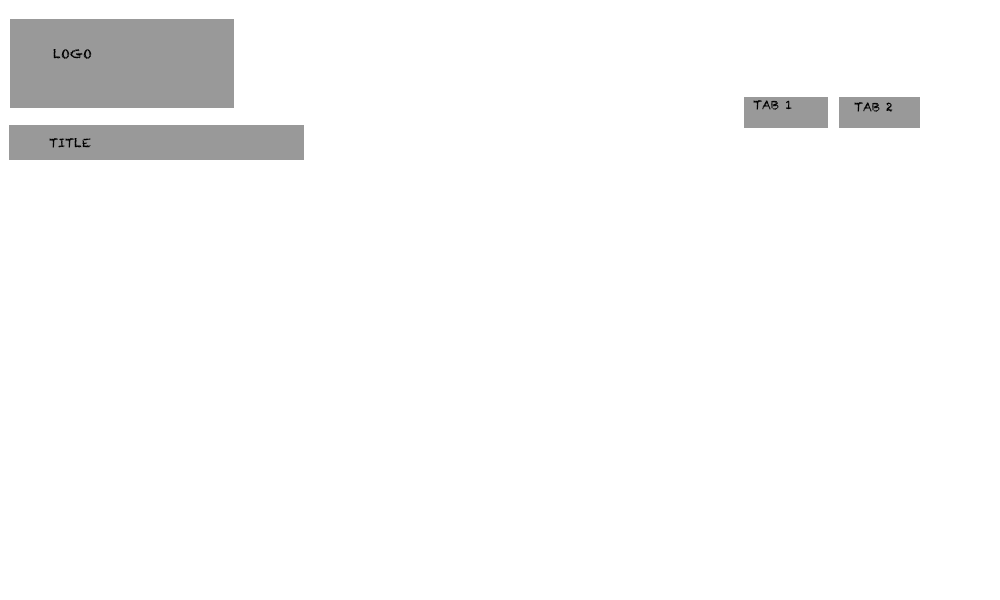
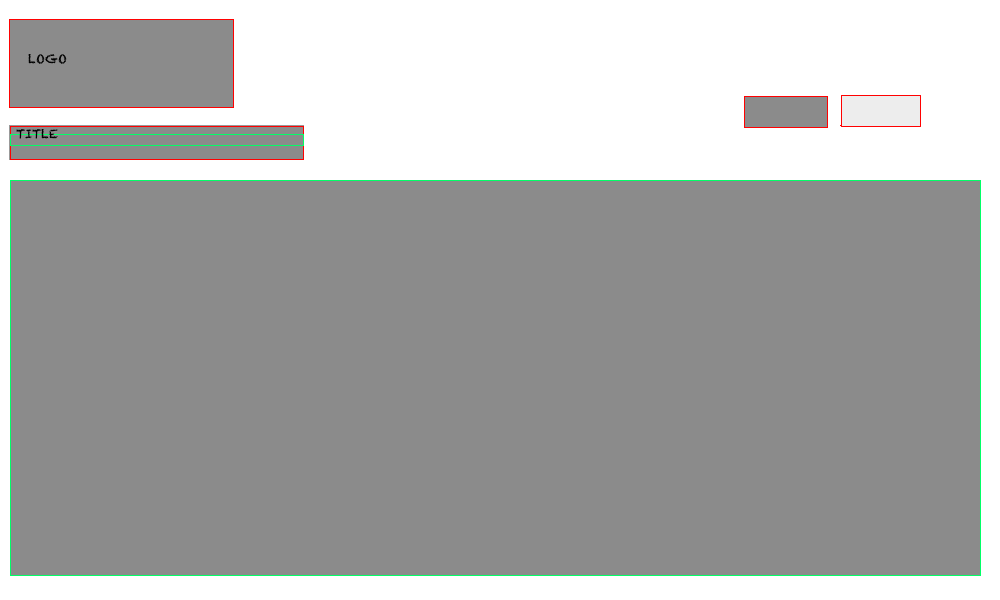
added website template band why things are there

diff --git a/makinghomepage.html b/makinghomepage.html
@@ -56,7 +56,7 @@
       <li>It is focused on the people in the yearbook and photography club</li>
       <li>Our homepage is mainly just giving information out, that is why we have a google doc powerpoint on the homepage</li>
       <li>Our audience is very specific, it is the students in the yearbook and photography, and it for them to use as a resource to check their assignments</li>
-
+    </ul>
 
 
 
@@ -64,4 +64,9 @@
 <img src="Website Template.png">
 
   <h3> Things that are the same </h3>
+  <ul>
+    <li>The logo we felt shold be kept in the same in all our different pages because the website is specific to those people who represent the logo</li>
+    <li>The tabs we kept the same throughout the websites, it is the gateway for the user to switch between the different pages </li>
+    <li>The final item that we kept the same in our webstie template was the title, the title for the different pages will be different but fo the website there will always a box for a title </li>
+  
 </html>
